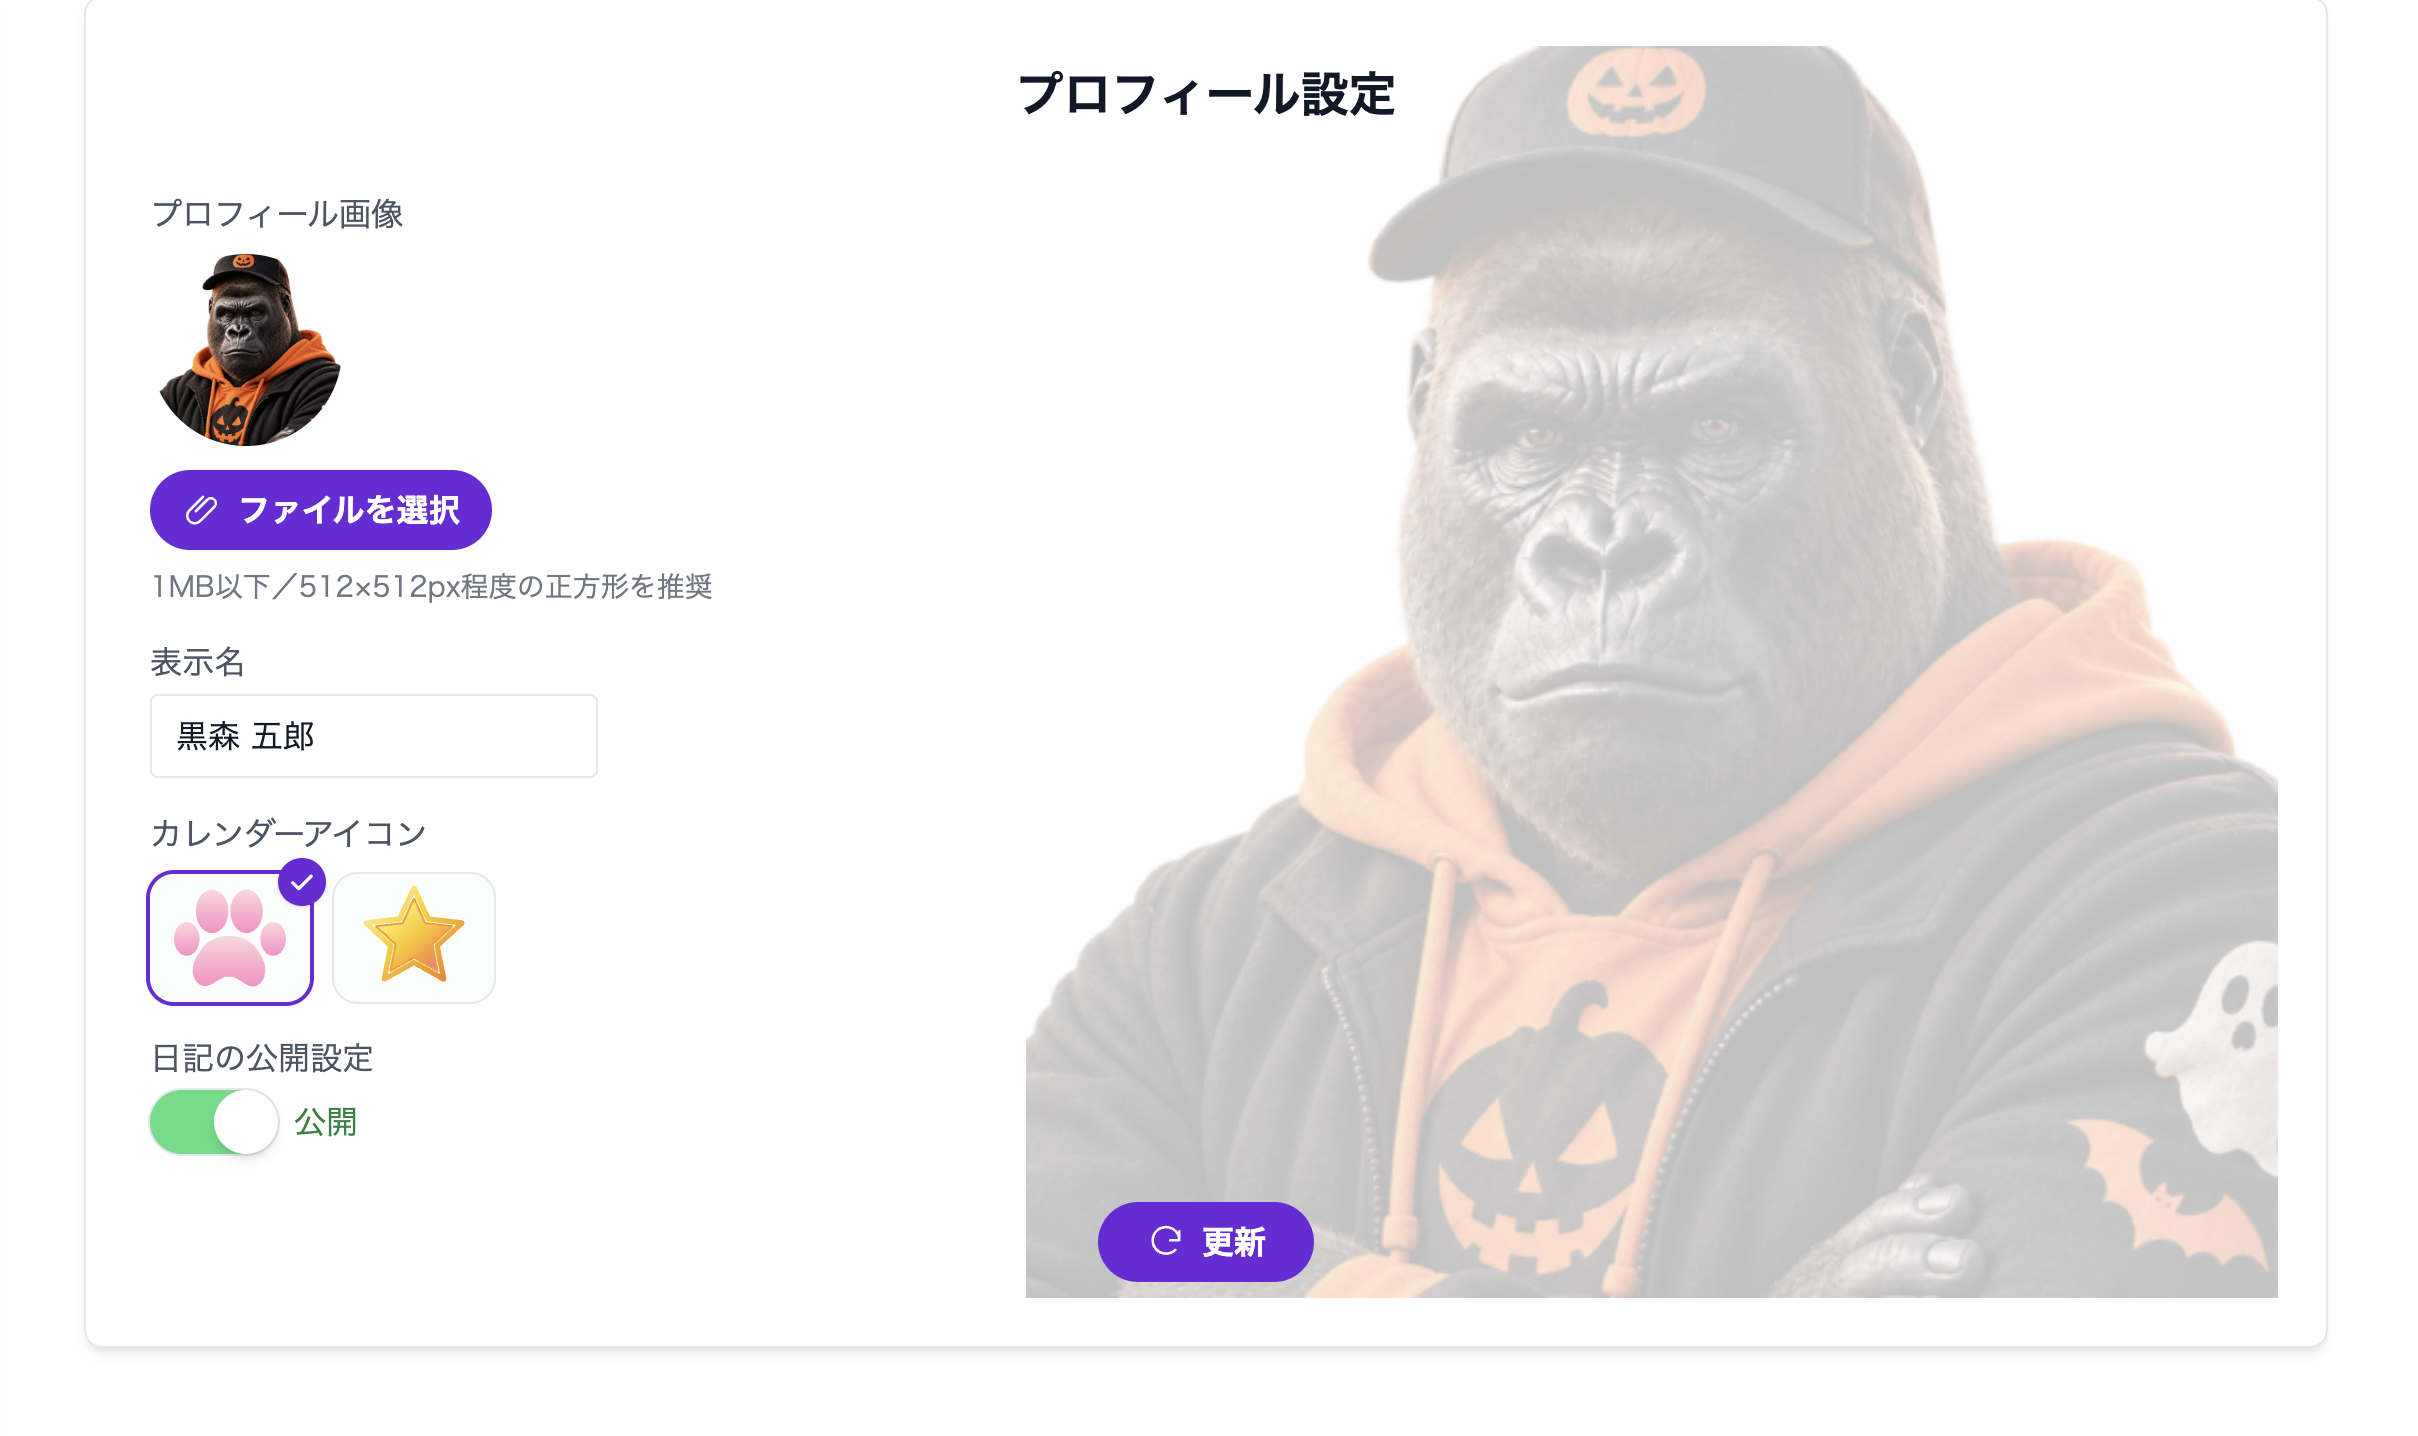
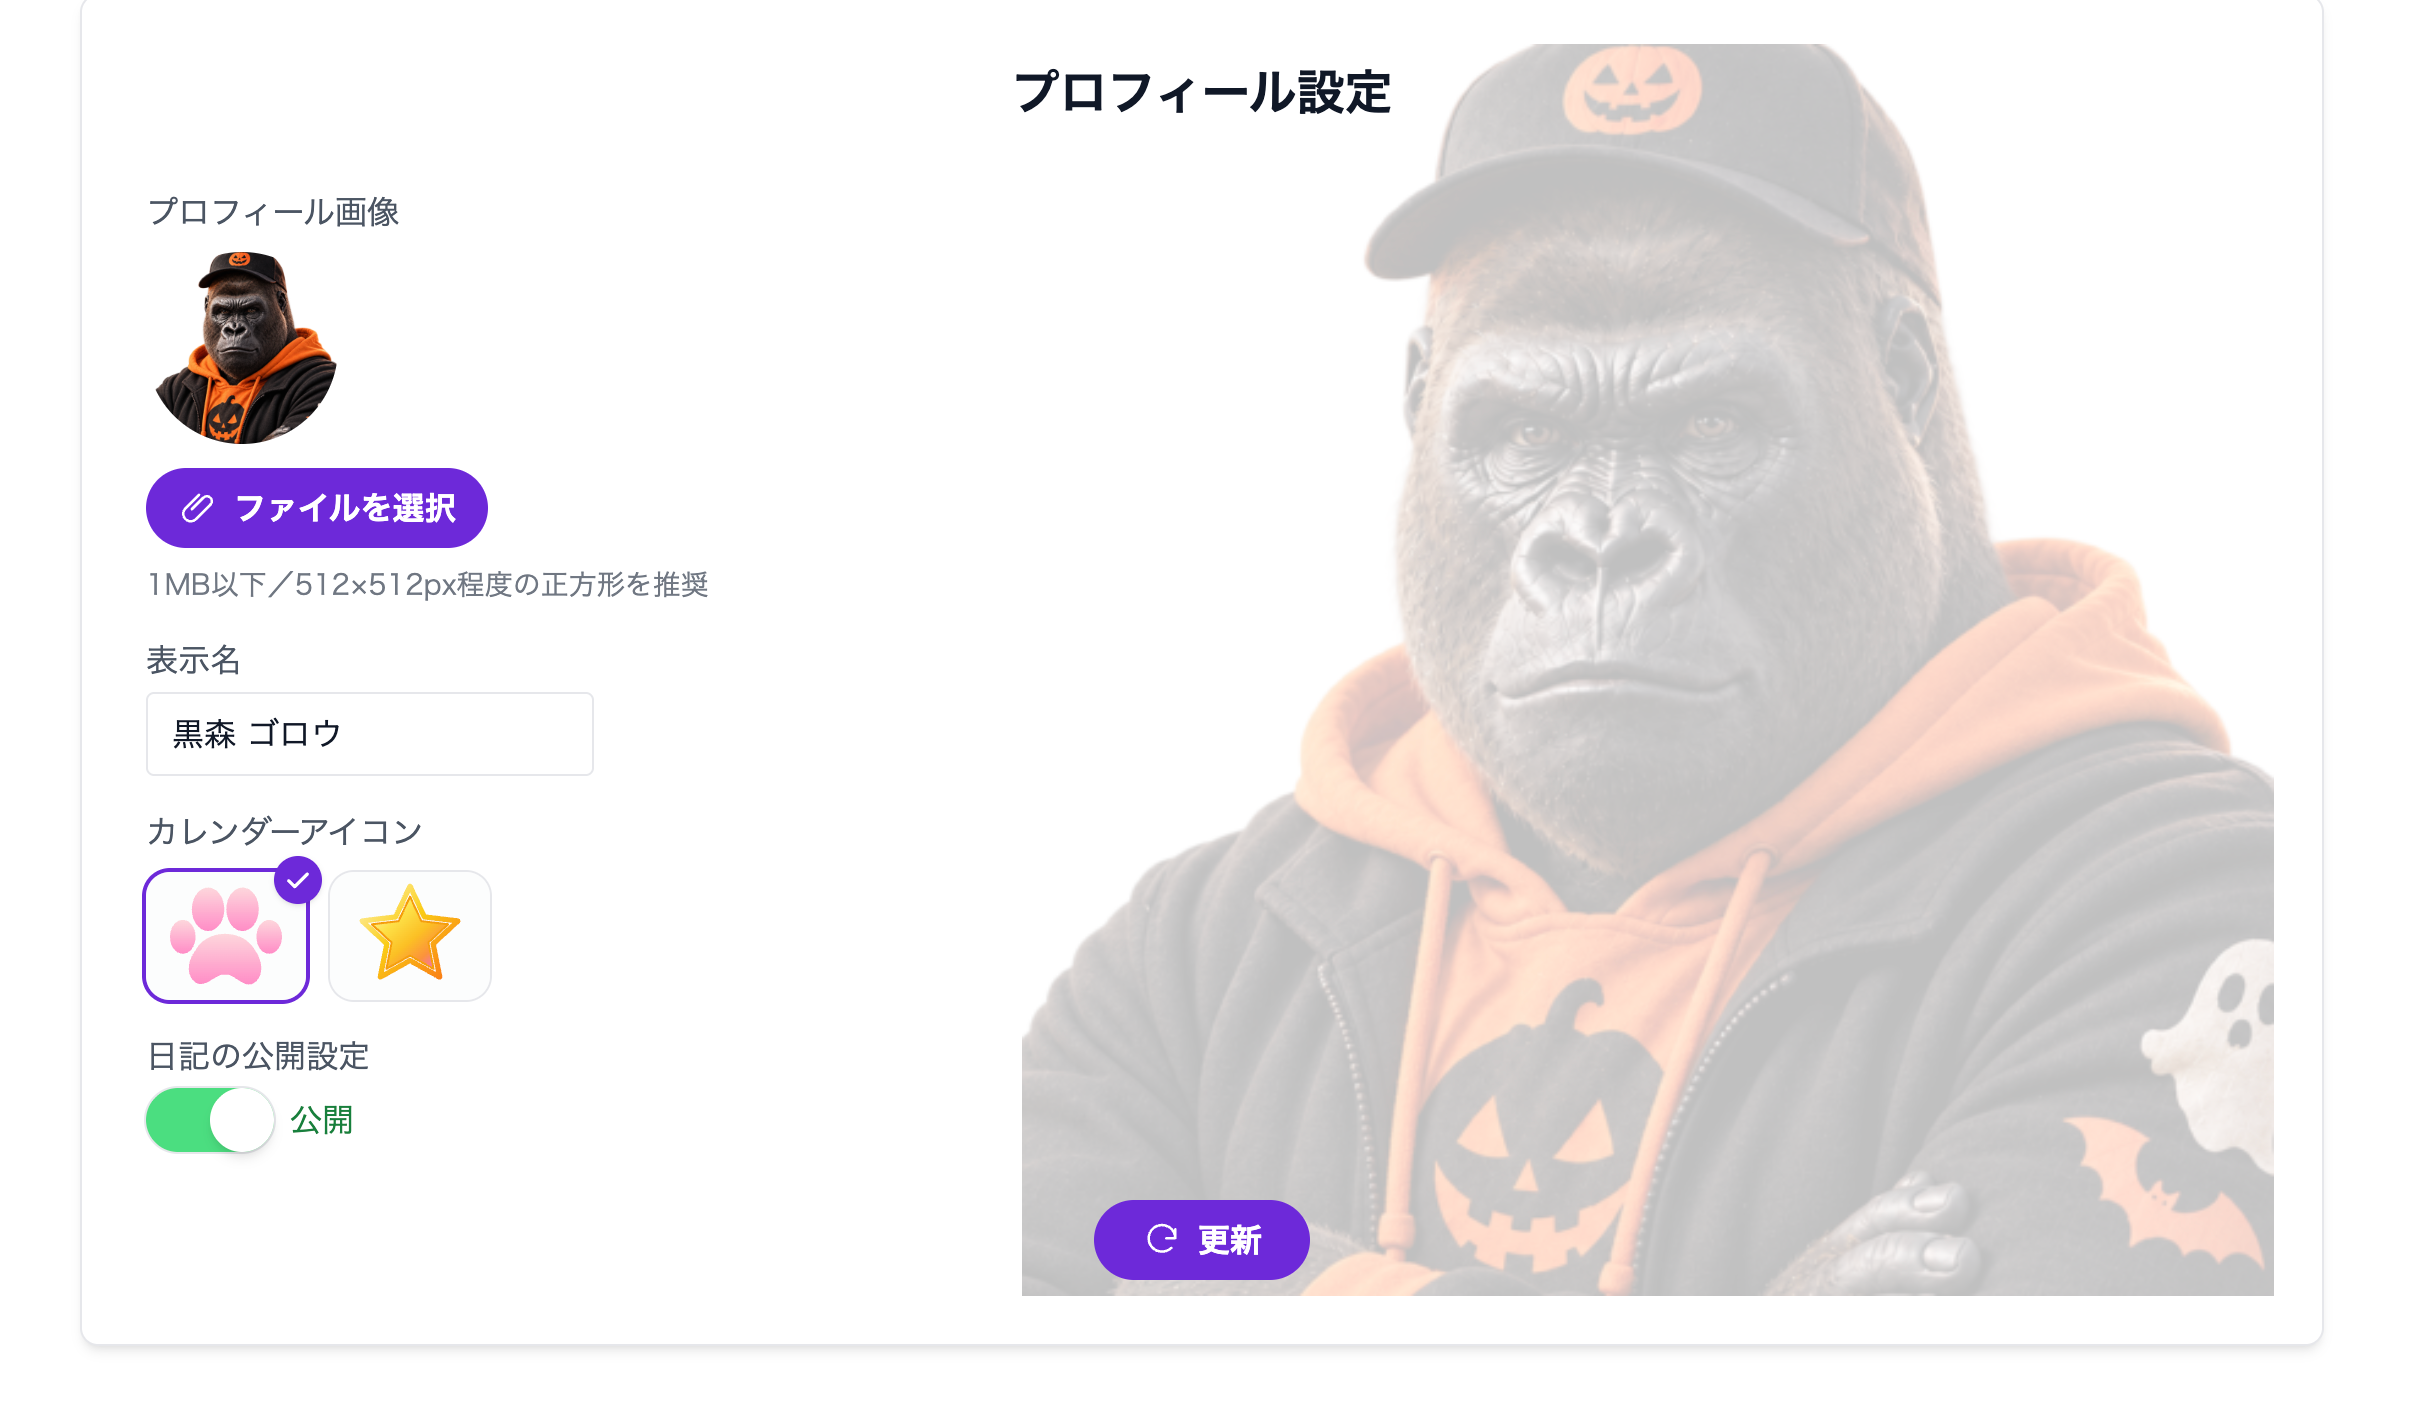
Pawth LPの表示レイアウトを調整

diff --git a/components/Usability.tsx b/components/Usability.tsx
@@ -52,9 +52,7 @@ export default function Usability({ onImageClick }: UsabilityProps) {
               {t("title")}
             </h2>
 
-            <p className="mt-5 max-w-2xl leading-8 text-(--muted)">
-              {t("description")}
-            </p>
+            <p className="mt-5 leading-8 text-(--muted)">{t("description")}</p>
           </div>
 
           <div className="grid gap-5 md:grid-cols-3">
@@ -84,7 +82,7 @@ export default function Usability({ onImageClick }: UsabilityProps) {
                 <button
                   key={screen.id}
                   type="button"
-                  className="group mx-auto w-full"
+                  className="group mx-auto w-full overflow-hidden rounded-3xl"
                   onClick={() =>
                     onImageClick({
                       src: screen.modalSrc,

diff --git a/components/ThemeColors.tsx b/components/ThemeColors.tsx
@@ -22,7 +22,7 @@ export default function ThemeColors({ onImageClick }: ThemeColorsProps) {
     <section className="py-20 md:py-28">
       <Container>
         <FadeIn>
-          <div className="grid items-center gap-10 md:grid-cols-2 md:gap-16">
+          <div className="grid items-center gap-10 md:grid-cols-[1.1fr_0.9fr] md:gap-16">
             <div>
               <p className="mb-4 text-sm font-bold tracking-[0.14em] text-(--accent) uppercase">
                 {t("label")}

diff --git a/components/Screens.tsx b/components/Screens.tsx
@@ -56,9 +56,7 @@ export default function Screens({ onImageClick }: ScreensProps) {
             {t("title")}
           </h2>
 
-          <p className="mt-5 max-w-2xl leading-8 text-(--muted)">
-            {t("description")}
-          </p>
+          <p className="mt-5 leading-8 text-(--muted)">{t("description")}</p>
         </div>
 
         <div className="space-y-24 md:space-y-32">
